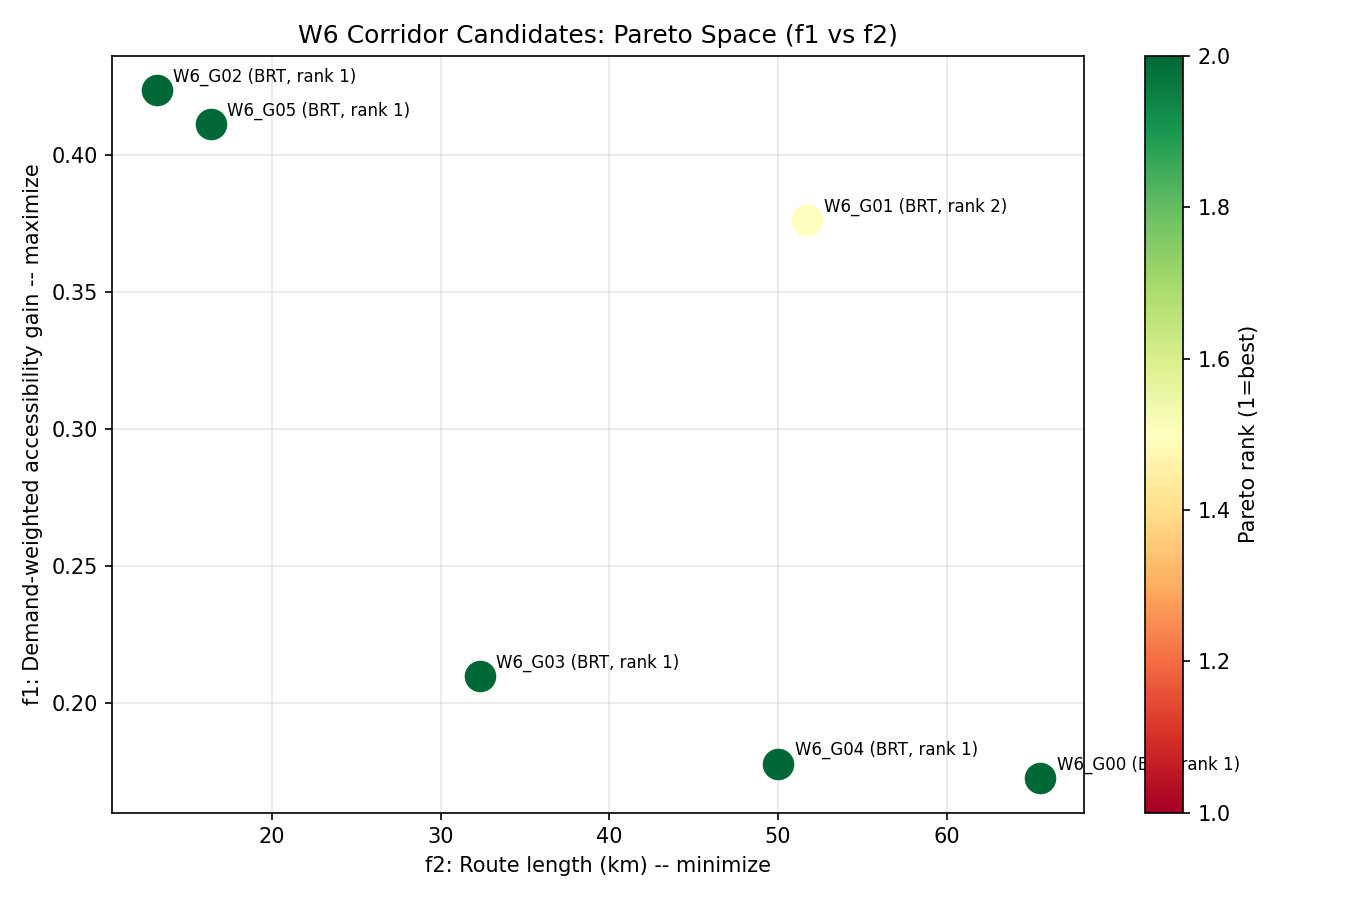
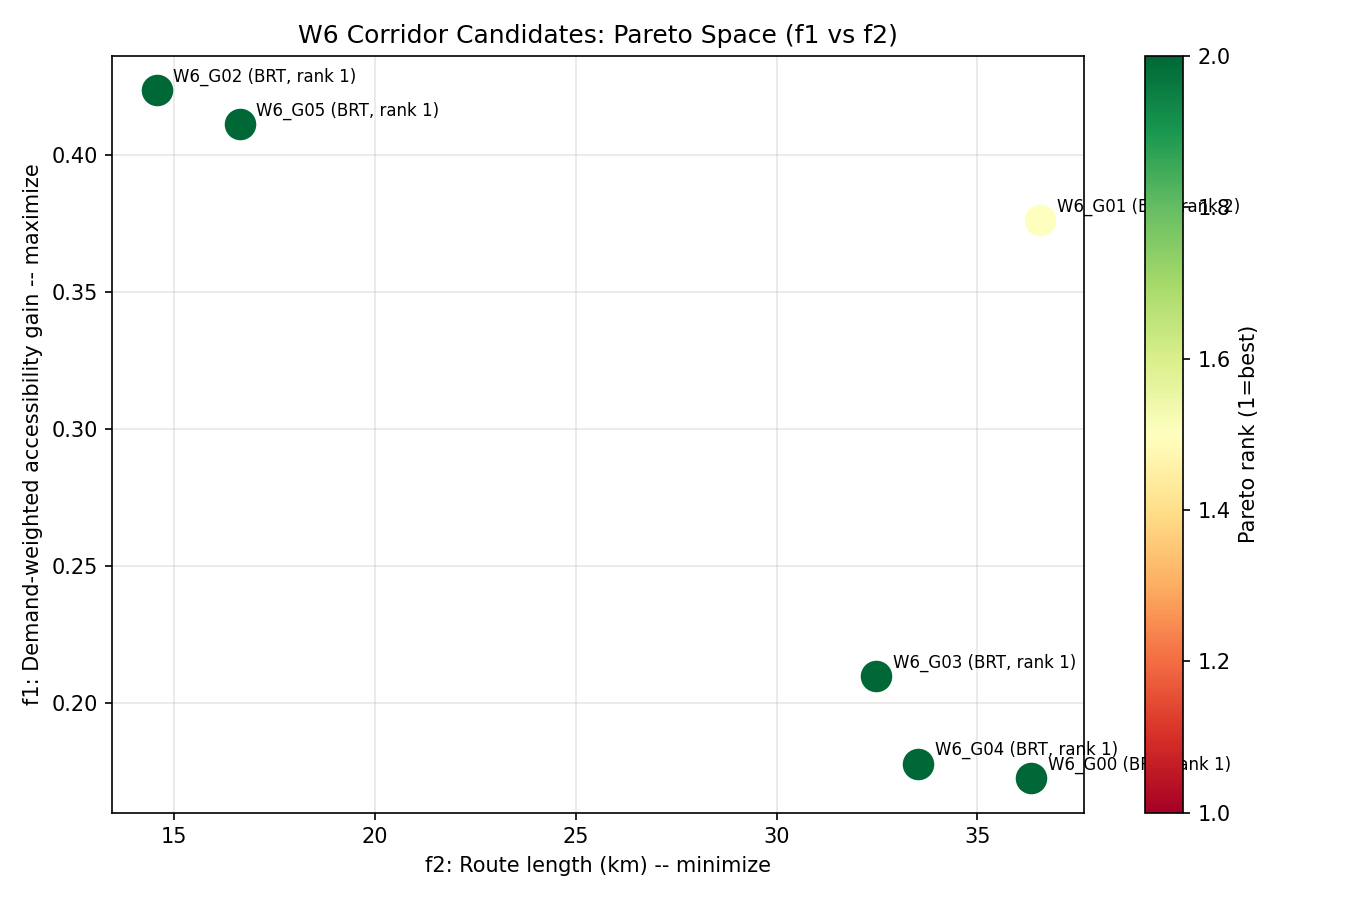
fix(w6): remove redundant JOIN, thread route_km, fix GeoJSON CRS, cleanup
- B1: remove ageb_trip_ends JOIN from load_gap_agebs; transit_demand already in ageb_coverage_gap
- H1: add route_km_override param to build_route_candidate; thread OSM road distance from build_corridor_path through corridor_kms list into Step 8 call
- H3: remove ON CONFLICT DO UPDATE from write_to_db; table is always empty after DROP/CREATE migration
- M1: wrap main() body in try/finally so engine.dispose() runs on all exit paths including sys.exit
- M3: reproject GeoJSON output to EPSG:4326 (RFC 7946) before writing

diff --git a/src/run_w6.py b/src/run_w6.py
@@ -80,10 +80,6 @@ def write_to_db(engine, rows: list) -> None:
             :composite_score, :total_score, :pareto_rank, :feasible,
             :mode_assignment, ST_GeomFromText(:geom_wkt, 6372)
         )
-        ON CONFLICT (candidate_id) DO UPDATE SET
-            total_score = EXCLUDED.total_score,
-            pareto_rank = EXCLUDED.pareto_rank,
-            mode_assignment = EXCLUDED.mode_assignment
     """)
     with engine.begin() as conn:
         for row in rows:
@@ -96,6 +92,7 @@ def write_geojson(rows: list, geoms: list) -> None:
         return
     records = [{k: v for k, v in r.items() if k != "geom_wkt"} for r in rows]
     gdf = gpd.GeoDataFrame(records, geometry=geoms, crs="EPSG:6372")
+    gdf = gdf.to_crs("EPSG:4326")
     out = OUTPUT_DIR / "corridor_candidates.geojson"
     gdf.to_file(out, driver="GeoJSON")
     print(f"  [OK] GeoJSON written: {out}")
@@ -202,143 +199,143 @@ def main() -> None:
     print(f"\n{SEP}\n  W6: NEW CORRIDOR GENERATION\n{SEP}")
     cfg = W5Config()
     engine = create_engine(PG_URI)
+    try:
+        print("\n[Step 1] Applying DB migration...")
+        run_migration(engine)
 
-    print("\n[Step 1] Applying DB migration...")
-    run_migration(engine)
+        print("\n[Step 2] Loading coverage-gap surface from DB...")
+        gap_gdf = load_gap_agebs(engine)
+        print(f"  [OK] {len(gap_gdf)} AGEBs loaded")
 
-    print("\n[Step 2] Loading coverage-gap surface from DB...")
-    gap_gdf = load_gap_agebs(engine)
-    print(f"  [OK] {len(gap_gdf)} AGEBs loaded")
+        print("\n[Step 3] Selecting anchor AGEBs via Jenks natural breaks...")
+        anchors = select_anchors_jenks(gap_gdf, k_classes=5, min_demand=500.0)
+        print(f"  [OK] {len(anchors)} anchor AGEBs in top Jenks class")
+        if len(anchors) == 0:
+            print("  [ERR] No anchors found. Run W3 first.")
+            sys.exit(1)
 
-    print("\n[Step 3] Selecting anchor AGEBs via Jenks natural breaks...")
-    anchors = select_anchors_jenks(gap_gdf, k_classes=5, min_demand=500.0)
-    print(f"  [OK] {len(anchors)} anchor AGEBs in top Jenks class")
-    if len(anchors) == 0:
-        print("  [ERR] No anchors found. Run W3 first.")
+        if len(anchors) > N_ANCHORS:
+            anchors = anchors.nlargest(N_ANCHORS, "transit_demand").reset_index(drop=True)
+            print(f"  [OK] Trimmed to top {N_ANCHORS} by transit_demand")
+
+        print("\n[Step 4] Clustering anchors into corridor groups...")
+        anchors = cluster_anchors(anchors, n_corridors=N_CORRIDORS)
+        n_groups = anchors["corridor_group"].nunique()
+        print(f"  [OK] {n_groups} corridor groups formed")
+
+        print("\n[Step 5] Loading OSM drive graph...")
+        G_raw = load_or_download_osm()
+        G_proj = project_to_6372(G_raw)
+        print(f"  [OK] Graph: {G_proj.number_of_nodes()} nodes, {G_proj.number_of_edges()} edges (EPSG:6372)")
+
+        print("\n[Step 6] Snapping anchor centroids to OSM nodes...")
+        cx_list = anchors["cx"].tolist()
+        cy_list = anchors["cy"].tolist()
+        osm_node_ids = snap_to_osm_nodes(G_proj, cx_list, cy_list)
+        anchors = anchors.copy()
+        anchors["osm_node"] = osm_node_ids
+        print(f"  [OK] {len(osm_node_ids)} centroids snapped")
+
+        print("\n[Step 7] Building corridor paths (one MST per cluster)...")
+        corridor_geoms = []
+        corridor_groups = []
+        corridor_kms = []
+        for group_id in sorted(anchors["corridor_group"].unique()):
+            group_rows = anchors[anchors["corridor_group"] == group_id]
+            terminal_nodes = group_rows["osm_node"].tolist()
+            geom, route_km = build_corridor_path(G_proj, terminal_nodes)
+            if geom is None or route_km <= 0.01:
+                print(f"  [SKIP] Group {group_id}: could not build path")
+                continue
+            corridor_geoms.append(geom)
+            corridor_groups.append(group_id)
+            corridor_kms.append(route_km)
+            print(f"  [OK] Group {group_id}: {route_km:.2f} km, {len(terminal_nodes)} terminals")
+
+        if not corridor_geoms:
+            print("  [ERR] No valid corridor paths built.")
+            sys.exit(1)
+
+        print("\n[Step 8] Building RouteCandidate objects...")
+        candidates = []
+        for geom, gid, road_km in zip(corridor_geoms, corridor_groups, corridor_kms):
+            cid = f"W6_G{gid:02d}"
+            rc = build_route_candidate(cid, geom, engine, config=cfg, route_km_override=road_km)
+            if rc is None:
+                print(f"  [SKIP] {cid}: fewer than 2 served AGEBs")
+                continue
+            candidates.append((rc, geom, gid))
+            print(f"  [OK] {cid}: {len(rc.served_ageb_ids)} served AGEBs, "
+                  f"{rc.route_km:.2f}km, connected={rc.connects_to_existing}")
+
+        if not candidates:
+            print("  [ERR] No valid RouteCandidate objects built.")
+            sys.exit(1)
+
+        print("\n[Step 9] Evaluating W5 objectives and constraints...")
+        all_ids = list({aid for rc, _, _ in candidates for aid in rc.served_ageb_ids})
+        ctx_list = load_ageb_context(all_ids, engine)
+        ctx_map = {c.cvegeo: c for c in ctx_list}
+
+        objectives = []
+        constraint_results = []
+        for rc, geom, gid in candidates:
+            ctxs = [ctx_map[aid] for aid in rc.served_ageb_ids if aid in ctx_map]
+            obj = evaluate_objective(rc, ctxs, cfg)
+            cr = check_constraints(rc, ctxs, cfg)
+            objectives.append(obj)
+            constraint_results.append(cr)
+            print(f"  {rc.candidate_id}: f1={obj.f1_demand_gain:.3f} f2={obj.f2_route_km:.2f}km "
+                  f"f3={obj.f3_equity:.3f} score={obj.total_score:.3f} feasible={cr.feasible}")
+            for v in cr.violations:
+                print(f"    [VIOLATION] {v.message}")
+
+        print("\n[Step 10] Pareto ranking...")
+        ranks = pareto_rank(objectives)
+
+        print("\n[Step 11] Assembling output rows...")
+        rows = []
+        geom_list = []
+        for (rc, geom, gid), obj, cr, rank in zip(candidates, objectives, constraint_results, ranks):
+            ctxs = [ctx_map[aid] for aid in rc.served_ageb_ids if aid in ctx_map]
+            td = sum(c.transit_demand for c in ctxs)
+            mode = assign_mode(td, BRT_THRESHOLD)
+            rows.append({
+                "candidate_id": rc.candidate_id,
+                "corridor_group": int(gid),
+                "route_km": float(obj.f2_route_km),
+                "n_stops": int(rc.n_stops),
+                "straight_line_km": float(rc.straight_line_km),
+                "connects_to_existing": bool(rc.connects_to_existing),
+                "n_served_agebs": len(rc.served_ageb_ids),
+                "total_demand": float(td),
+                "f1_demand_gain": float(obj.f1_demand_gain),
+                "f2_route_km": float(obj.f2_route_km),
+                "f3_equity": float(obj.f3_equity),
+                "composite_score": float(obj.composite_score),
+                "total_score": float(obj.total_score),
+                "pareto_rank": int(rank),
+                "feasible": bool(cr.feasible),
+                "mode_assignment": mode,
+                "geom_wkt": geom.wkt,
+            })
+            geom_list.append(geom)
+
+        print("\n[Step 12] Writing outputs...")
+        write_to_db(engine, rows)
+        write_geojson(rows, geom_list)
+        write_scores_csv(rows)
+        write_pareto_chart(rows)
+        write_report(rows)
+
+        print(f"\n{SEP}\n  [OK] W6 CORRIDOR GENERATION COMPLETE\n{SEP}")
+        print(f"\nOutputs: {OUTPUT_DIR}/")
+        print("  corridor_candidates.geojson  -- QGIS-ready ranked corridors")
+        print("  corridor_scores.csv          -- objective function scores")
+        print("  pareto_front.png             -- Pareto scatter (f1 vs f2)")
+        print("  w6_report.md                 -- methodology + results table")
+    finally:
         engine.dispose()
-        sys.exit(1)
-
-    if len(anchors) > N_ANCHORS:
-        anchors = anchors.nlargest(N_ANCHORS, "transit_demand").reset_index(drop=True)
-        print(f"  [OK] Trimmed to top {N_ANCHORS} by transit_demand")
-
-    print("\n[Step 4] Clustering anchors into corridor groups...")
-    anchors = cluster_anchors(anchors, n_corridors=N_CORRIDORS)
-    n_groups = anchors["corridor_group"].nunique()
-    print(f"  [OK] {n_groups} corridor groups formed")
-
-    print("\n[Step 5] Loading OSM drive graph...")
-    G_raw = load_or_download_osm()
-    G_proj = project_to_6372(G_raw)
-    print(f"  [OK] Graph: {G_proj.number_of_nodes()} nodes, {G_proj.number_of_edges()} edges (EPSG:6372)")
-
-    print("\n[Step 6] Snapping anchor centroids to OSM nodes...")
-    cx_list = anchors["cx"].tolist()
-    cy_list = anchors["cy"].tolist()
-    osm_node_ids = snap_to_osm_nodes(G_proj, cx_list, cy_list)
-    anchors = anchors.copy()
-    anchors["osm_node"] = osm_node_ids
-    print(f"  [OK] {len(osm_node_ids)} centroids snapped")
-
-    print("\n[Step 7] Building corridor paths (one MST per cluster)...")
-    corridor_geoms = []
-    corridor_groups = []
-    for group_id in sorted(anchors["corridor_group"].unique()):
-        group_rows = anchors[anchors["corridor_group"] == group_id]
-        terminal_nodes = group_rows["osm_node"].tolist()
-        geom, route_km = build_corridor_path(G_proj, terminal_nodes)
-        if geom is None or route_km <= 0.01:
-            print(f"  [SKIP] Group {group_id}: could not build path")
-            continue
-        corridor_geoms.append(geom)
-        corridor_groups.append(group_id)
-        print(f"  [OK] Group {group_id}: {route_km:.2f} km, {len(terminal_nodes)} terminals")
-
-    if not corridor_geoms:
-        print("  [ERR] No valid corridor paths built.")
-        engine.dispose()
-        sys.exit(1)
-
-    print("\n[Step 8] Building RouteCandidate objects...")
-    candidates = []
-    for geom, gid in zip(corridor_geoms, corridor_groups):
-        cid = f"W6_G{gid:02d}"
-        rc = build_route_candidate(cid, geom, engine, config=cfg)
-        if rc is None:
-            print(f"  [SKIP] {cid}: fewer than 2 served AGEBs")
-            continue
-        candidates.append((rc, geom, gid))
-        print(f"  [OK] {cid}: {len(rc.served_ageb_ids)} served AGEBs, "
-              f"{rc.route_km:.2f}km, connected={rc.connects_to_existing}")
-
-    if not candidates:
-        print("  [ERR] No valid RouteCandidate objects built.")
-        engine.dispose()
-        sys.exit(1)
-
-    print("\n[Step 9] Evaluating W5 objectives and constraints...")
-    all_ids = list({aid for rc, _, _ in candidates for aid in rc.served_ageb_ids})
-    ctx_list = load_ageb_context(all_ids, engine)
-    ctx_map = {c.cvegeo: c for c in ctx_list}
-
-    objectives = []
-    constraint_results = []
-    for rc, geom, gid in candidates:
-        ctxs = [ctx_map[aid] for aid in rc.served_ageb_ids if aid in ctx_map]
-        obj = evaluate_objective(rc, ctxs, cfg)
-        cr = check_constraints(rc, ctxs, cfg)
-        objectives.append(obj)
-        constraint_results.append(cr)
-        print(f"  {rc.candidate_id}: f1={obj.f1_demand_gain:.3f} f2={obj.f2_route_km:.2f}km "
-              f"f3={obj.f3_equity:.3f} score={obj.total_score:.3f} feasible={cr.feasible}")
-        for v in cr.violations:
-            print(f"    [VIOLATION] {v.message}")
-
-    print("\n[Step 10] Pareto ranking...")
-    ranks = pareto_rank(objectives)
-
-    print("\n[Step 11] Assembling output rows...")
-    rows = []
-    geom_list = []
-    for (rc, geom, gid), obj, cr, rank in zip(candidates, objectives, constraint_results, ranks):
-        ctxs = [ctx_map[aid] for aid in rc.served_ageb_ids if aid in ctx_map]
-        td = sum(c.transit_demand for c in ctxs)
-        mode = assign_mode(td, BRT_THRESHOLD)
-        rows.append({
-            "candidate_id": rc.candidate_id,
-            "corridor_group": int(gid),
-            "route_km": float(obj.f2_route_km),
-            "n_stops": int(rc.n_stops),
-            "straight_line_km": float(rc.straight_line_km),
-            "connects_to_existing": bool(rc.connects_to_existing),
-            "n_served_agebs": len(rc.served_ageb_ids),
-            "total_demand": float(td),
-            "f1_demand_gain": float(obj.f1_demand_gain),
-            "f2_route_km": float(obj.f2_route_km),
-            "f3_equity": float(obj.f3_equity),
-            "composite_score": float(obj.composite_score),
-            "total_score": float(obj.total_score),
-            "pareto_rank": int(rank),
-            "feasible": bool(cr.feasible),
-            "mode_assignment": mode,
-            "geom_wkt": geom.wkt,
-        })
-        geom_list.append(geom)
-
-    print("\n[Step 12] Writing outputs...")
-    write_to_db(engine, rows)
-    write_geojson(rows, geom_list)
-    write_scores_csv(rows)
-    write_pareto_chart(rows)
-    write_report(rows)
-
-    engine.dispose()
-    print(f"\n{SEP}\n  [OK] W6 CORRIDOR GENERATION COMPLETE\n{SEP}")
-    print(f"\nOutputs: {OUTPUT_DIR}/")
-    print("  corridor_candidates.geojson  -- QGIS-ready ranked corridors")
-    print("  corridor_scores.csv          -- objective function scores")
-    print("  pareto_front.png             -- Pareto scatter (f1 vs f2)")
-    print("  w6_report.md                 -- methodology + results table")
 
 
 if __name__ == "__main__":

diff --git a/src/w6_candidates.py b/src/w6_candidates.py
@@ -84,6 +84,7 @@ def build_route_candidate(
     geom: LineString,
     engine,
     config: W5Config = None,
+    route_km_override: float = None,
 ) -> Optional[RouteCandidate]:
     """
     Construct RouteCandidate from a corridor LineString.
@@ -93,7 +94,7 @@ def build_route_candidate(
         config = W5Config()
 
     geom_wkt = geom.wkt
-    route_km = geom.length / 1000.0
+    route_km = route_km_override if route_km_override is not None else geom.length / 1000.0
 
     start = geom.coords[0]
     end = geom.coords[-1]

diff --git a/src/w6_anchors.py b/src/w6_anchors.py
@@ -35,7 +35,6 @@ def load_gap_agebs(engine) -> gpd.GeoDataFrame:
             a.geom
         FROM features.ageb_coverage_gap g
         JOIN base.ageb a ON a.cvegeo = g.cve_ageb
-        JOIN features.ageb_trip_ends t ON t.cve_ageb = g.cve_ageb
         ORDER BY g.coverage_gap_n DESC
     """)
     with engine.connect() as conn:

diff --git a/outputs/w6/w6_report.md b/outputs/w6/w6_report.md
@@ -14,12 +14,12 @@
 
 | ID | Group | km | Stops | Connected | Served AGEBs | Total Demand | f1 | f3 | Score | Rank | Mode | Feasible |
 |---|---|---|---|---|---|---|---|---|---|---|---|---|
-| W6_G00 | 0 | 65.5 | 132 | True | 90 | 519763 | 0.173 | 0.576 | 0.317 | 1 | BRT | False |
-| W6_G02 | 2 | 13.2 | 27 | True | 3 | 40260 | 0.424 | 0.422 | 0.669 | 1 | BRT | True |
-| W6_G03 | 3 | 32.3 | 66 | True | 27 | 188842 | 0.210 | 0.476 | 0.329 | 1 | BRT | False |
-| W6_G04 | 4 | 50.0 | 101 | True | 63 | 305191 | 0.178 | 0.547 | 0.315 | 1 | BRT | False |
-| W6_G05 | 5 | 16.4 | 34 | True | 15 | 47816 | 0.412 | 0.450 | 0.638 | 1 | BRT | True |
-| W6_G01 | 1 | 51.7 | 104 | True | 26 | 110474 | 0.376 | 0.441 | 0.487 | 2 | BRT | False |
+| W6_G00 | 0 | 36.3 | 74 | True | 90 | 519763 | 0.173 | 0.576 | 0.317 | 1 | BRT | False |
+| W6_G02 | 2 | 14.6 | 30 | True | 3 | 40260 | 0.424 | 0.422 | 0.658 | 1 | BRT | True |
+| W6_G03 | 3 | 32.5 | 66 | True | 27 | 188842 | 0.210 | 0.476 | 0.329 | 1 | BRT | False |
+| W6_G04 | 4 | 33.5 | 68 | True | 63 | 305191 | 0.178 | 0.547 | 0.315 | 1 | BRT | False |
+| W6_G05 | 5 | 16.6 | 34 | True | 15 | 47816 | 0.412 | 0.450 | 0.636 | 1 | BRT | True |
+| W6_G01 | 1 | 36.6 | 74 | True | 26 | 110474 | 0.376 | 0.441 | 0.487 | 2 | BRT | False |
 
 ## Mode Assignment Sensitivity
 
